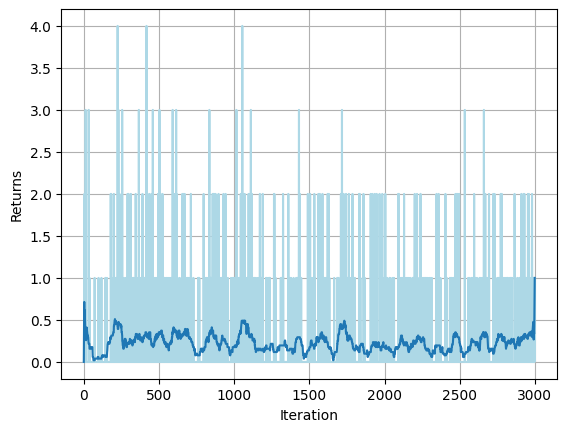
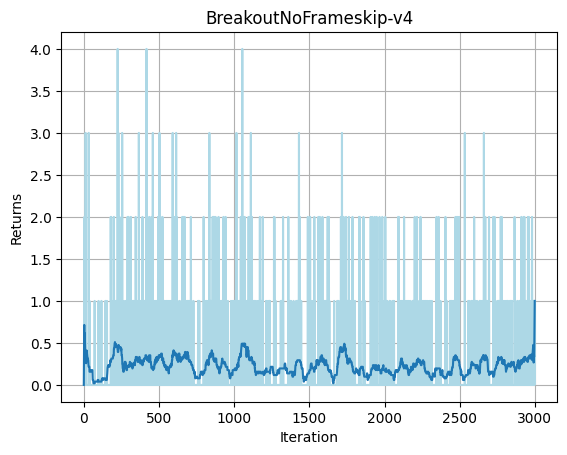
readme

diff --git a/visualize.py b/visualize.py
@@ -20,7 +20,8 @@ for env_name in ['VideoPinball-ramNoFrameskip-v4', 'BreakoutNoFrameskip-v4', 'Po
     plt.plot(range(len(returns)), moving_average(returns))
     plt.xlabel('Iteration')
     plt.ylabel('Returns')
+    plt.title(env_name)
     plt.grid()
     plt.savefig(f'figures/{env_name}.png', bbox_inches='tight')
-    plt.show()
+    # plt.show()
     plt.close()

diff --git a/README.md b/README.md
@@ -65,30 +65,34 @@ Our learning curve is as follows:
 <table>
   <tr>
     <td>
-      <img src="figures/VideoPinball-ramNoFrameskip-v4.png" width="100">
+      <img src="figures/VideoPinball-ramNoFrameskip-v4.png" width="400">
     </td>
     <td>
-      <img src="figures/BreakoutNoFrameskip-v4.png" width="100">
-    </td>
-    <td>
-      <img src="figures/PongNoFrameskip-v4.png" width="100">
-    </td>
-    <td>
-      <img src="figures/BoxingNoFrameskip-v4.png" width="100">
+      <img src="figures/BreakoutNoFrameskip-v4.png" width="400">
     </td>
   </tr>
   <tr>
     <td>
-      <img src="figures/Hopper-v2.png" width="100">
+      <img src="figures/PongNoFrameskip-v4.png" width="400">
     </td>
     <td>
-      <img src="figures/Humanoid-v2.png" width="100">
+      <img src="figures/BoxingNoFrameskip-v4.png" width="400">
+    </td>
+  </tr>
+  <tr>
+    <td>
+      <img src="figures/Hopper-v2.png" width="400">
     </td>
     <td>
-      <img src="figures/HalfCheetah-v2.png" width="100">
+      <img src="figures/Humanoid-v2.png" width="400">
+    </td>
+  </tr>
+  <tr>
+    <td>
+      <img src="figures/HalfCheetah-v2.png" width="400">
     </td>
     <td>
-      <img src="figures/Ant-v2.png" width="100">
+      <img src="figures/Ant-v2.png" width="400">
     </td>
   </tr>
 </table>
